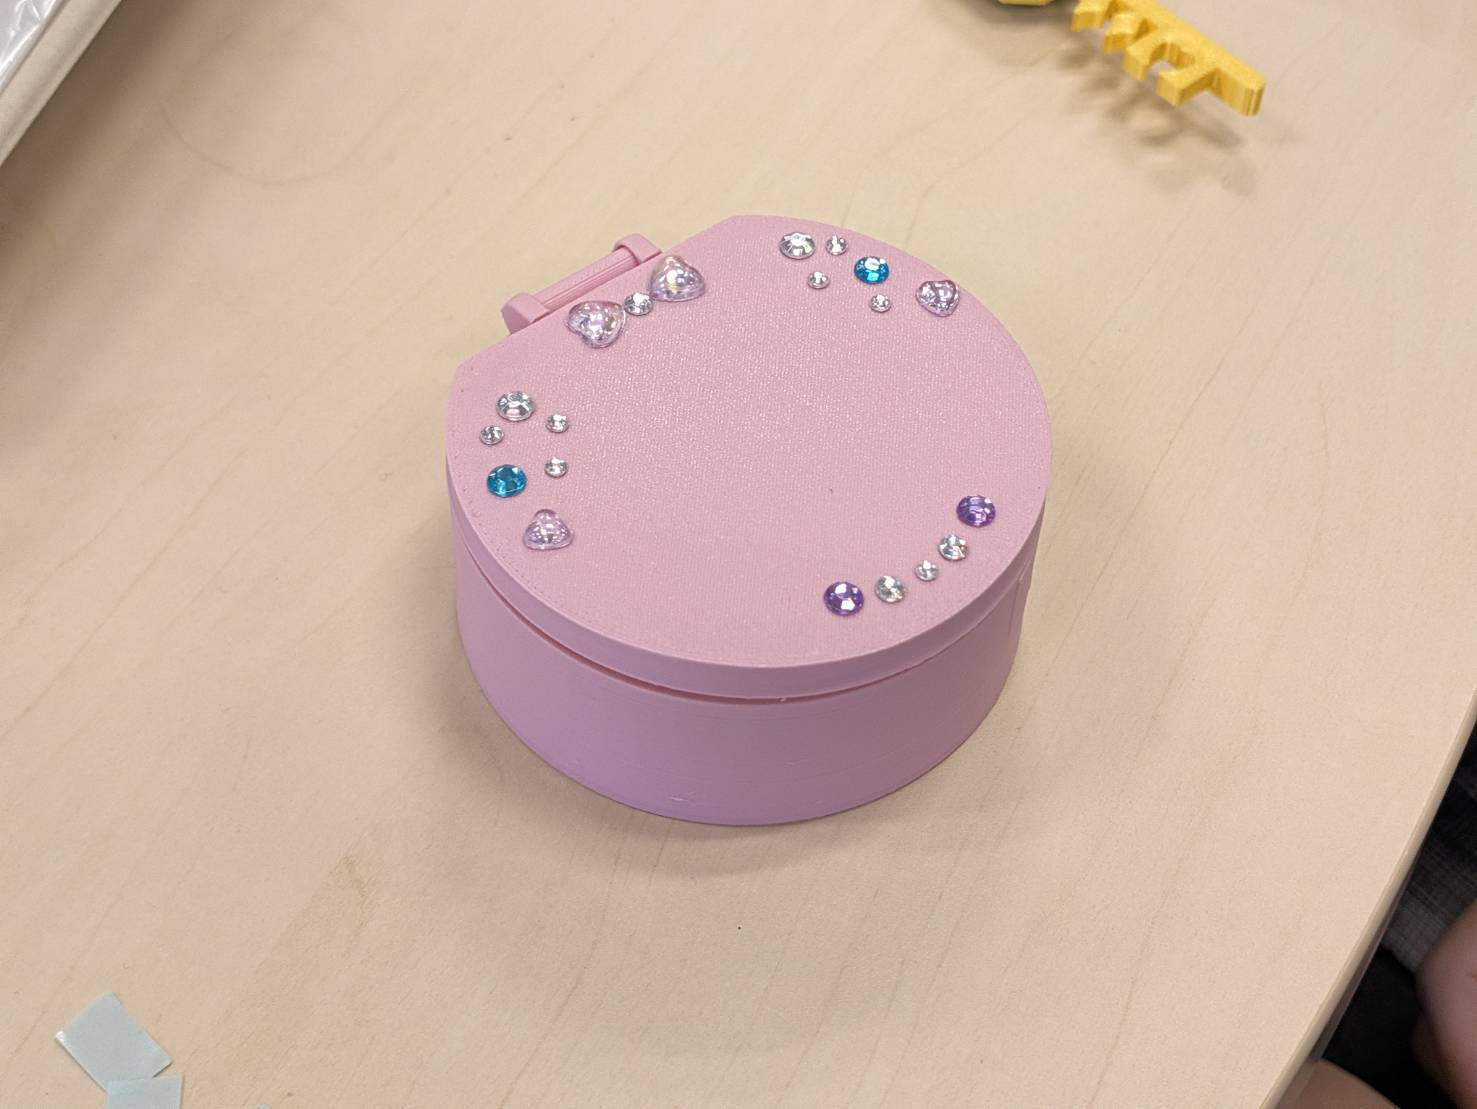
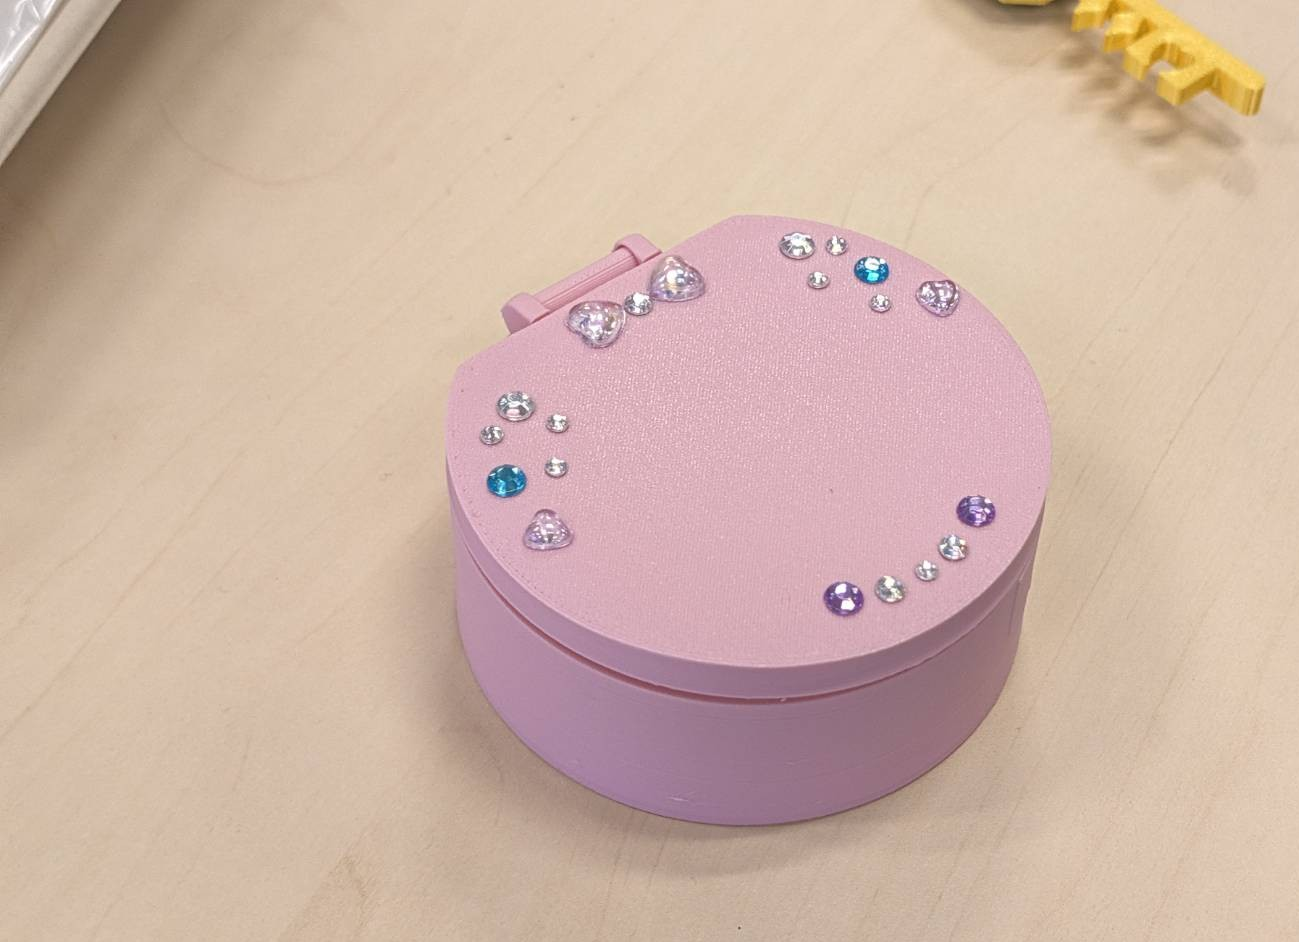
ヒンジの推奨印刷向きを追加、クレジット修正、写真をトリミング

diff --git a/README.md b/README.md
@@ -31,6 +31,10 @@
 | `D_inner_3mmLED.stl` | 内側パーツ | 3mm LED用 |
 | `key_charm.stl` | 鍵チャーム | ネオジム磁石を仕込むキーチェーン |
 
+ヒンジ（C）は、次の向きでの印刷を推奨します。
+
+<img src="images/hinge_print_orientation.jpg" alt="ヒンジの推奨印刷向き" width="400">
+
 ## 材料（1個分）
 
 ### 電子部品（秋月電子通商）
@@ -92,7 +96,7 @@
 
 ## クレジット
 
-- 設計相談：[ハヤカワ五味さん](https://x.com/GomiHgy)
+- 設計相談：[五味さん（EdelWorksPrj）](https://x.com/GomiHgy)
 - CADデータ作成：株式会社なかよし uni
 
 ### スポンサー（カンパ）
